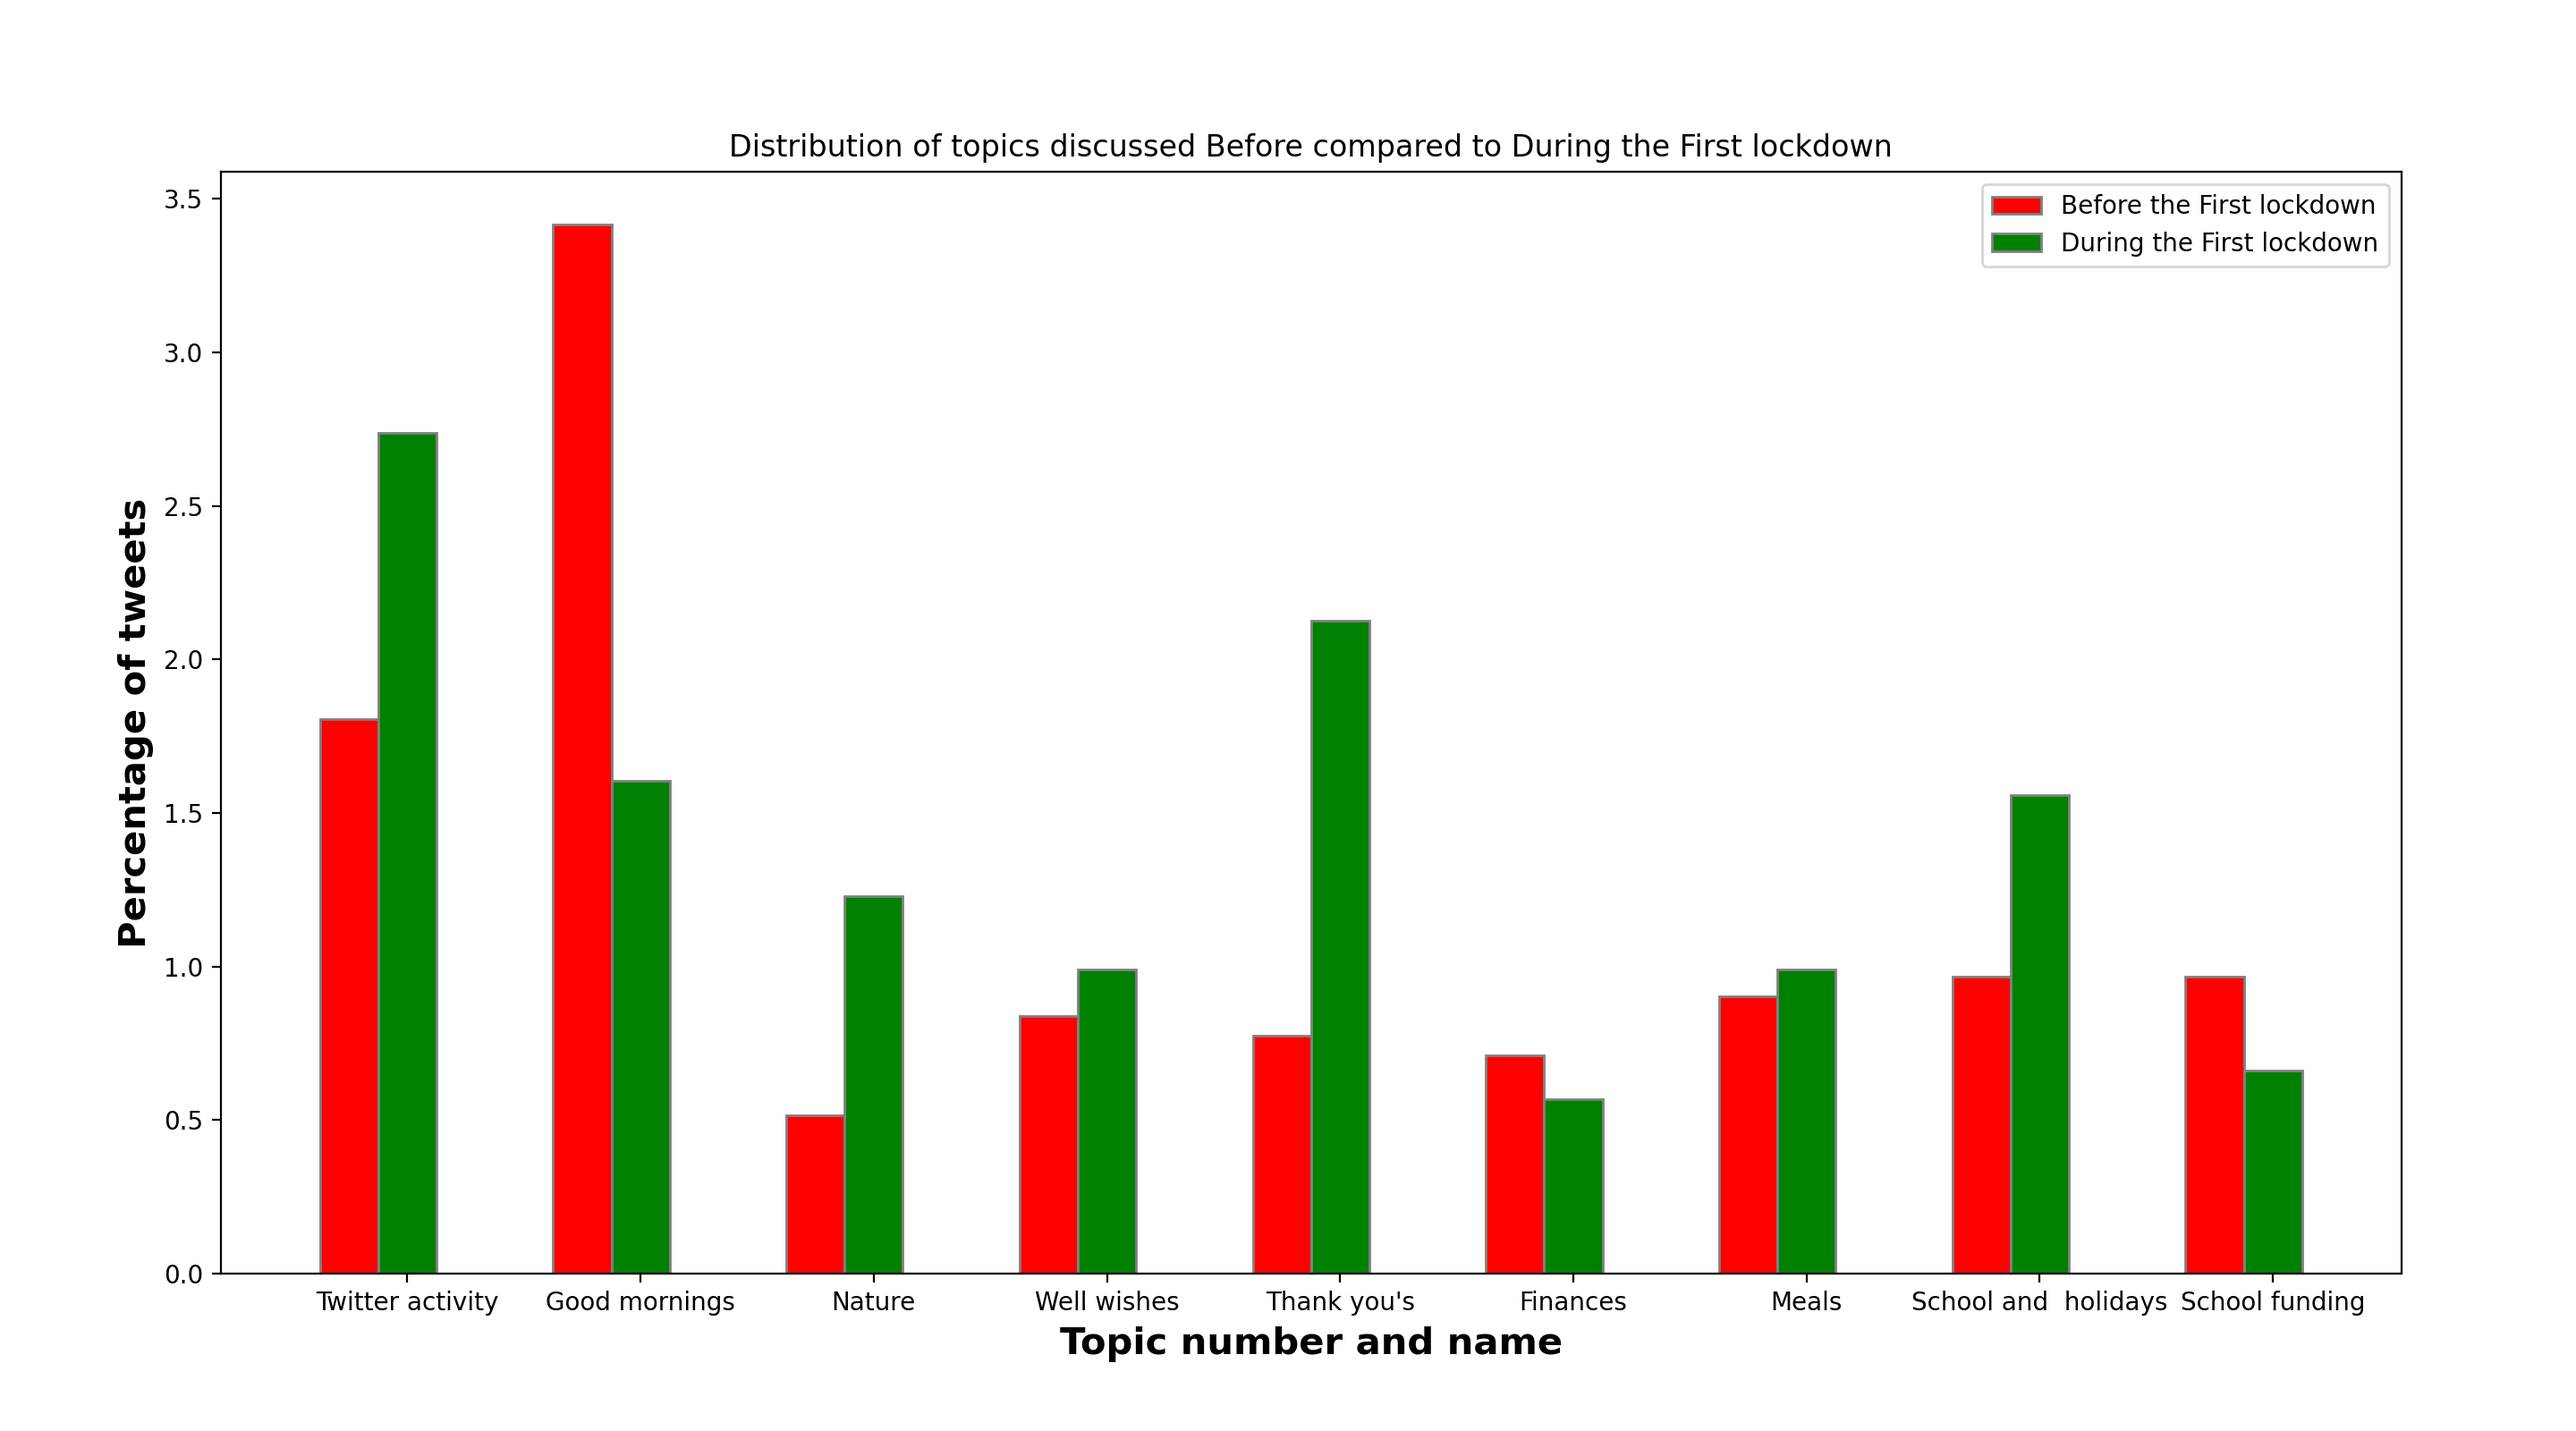
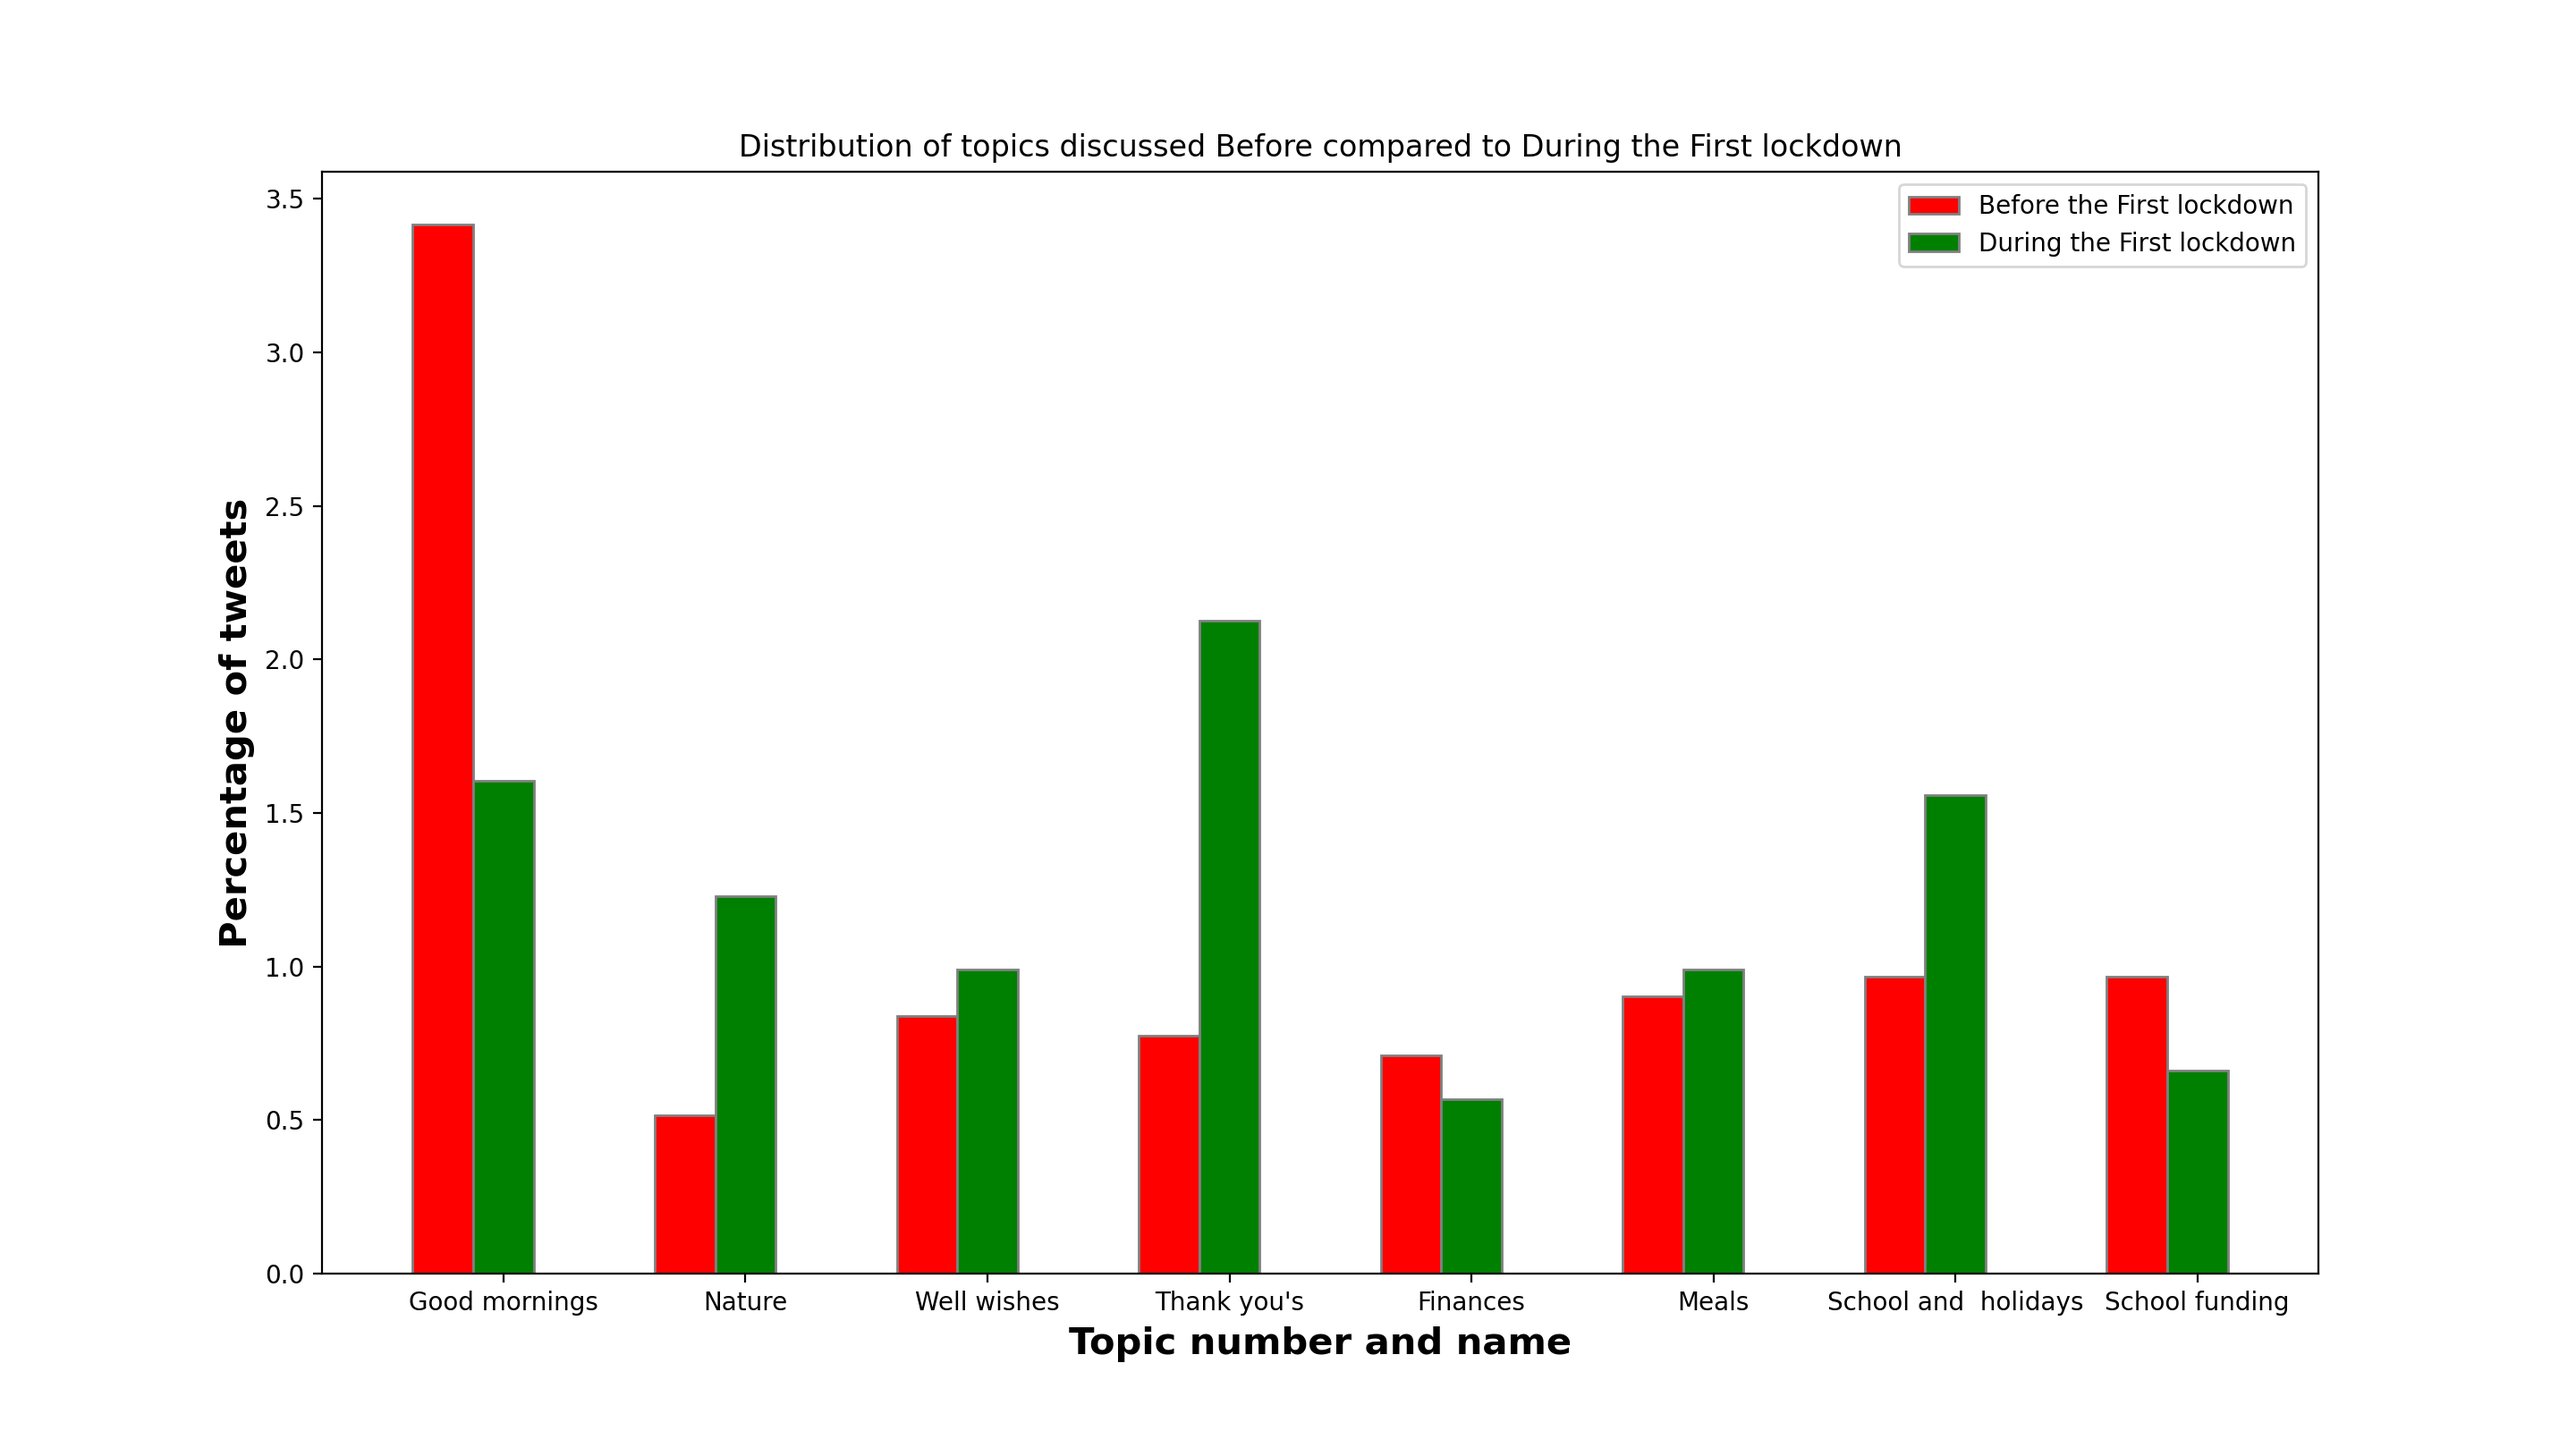
teacher plots

diff --git a/graphs/comparing_lockdowns.py b/graphs/comparing_lockdowns.py
@@ -11,27 +11,25 @@ directory_index = 0
 directory_name = directories[directory_index]
 profession_name = "nurse"
 nr_topics = 10
-# topic_dict = { 0: "Twitter activity", #for teachers
-#                 1: "School and school holidays",
-#                 2: "Good mornings and people",
-#                 3: "Nature",
-#                 4: "Well wishes",
-#                 5: "Thank you's",
-#                 6: "Finances",
-#                 7: "School funding",
-#                 8: "Meals",
-#                 9: "Loving wishes"}
-#
-# topic_strings = {"0: Twitter activity", #for teachers
-#                    "1: School and  holidays",
-#                    "2: Good mornings",
-#                    "3: Nature",
-#                    "4: Well wishes",
-#                    "5: Thank you's",
-#                    "6: Finances",
-#                    "7: School funding",
-#                    "8: Meals",
-#                    "9: Loving wishes"}
+topic_dict = { 0: "Twitter activity", #for teachers
+                1: "School and school holidays",
+                2: "Good mornings and people",
+                3: "Nature",
+                4: "Well wishes",
+                5: "Thank you's",
+                6: "Finances",
+                7: "School funding",
+                8: "Meals",
+                9: "Loving wishes"}
+
+topic_strings = [ #for teachers
+                   "2: Good mornings",
+                   "3: Nature",
+                   "4: Well wishes",
+                   "5: Thank you's",
+                   "6: Finances",
+                   "8: Meals"
+                   ]
 
 # topic_dict = {0: "Good morning", #for nurses
 #               1: "Thank you's",
@@ -42,15 +40,15 @@ nr_topics = 10
 #               7: "Miscellaneous",
 #               8: "General life",
 #               9: "Friends & people"}
-
+#
 # topic_strings = ["0: Good morning",
 #               "4: Expressions",
 #               "6: Exercise",
 #               "8: General life",
 #               "9: Friends & people"]
 
-chosen_topics = [0,4,6,8,9]
-work_topics = [2]
+chosen_topics = [2,3,4,5,6,8]
+work_topics = [1,7]
 
 first_lockdown_df = pd.read_csv(f"graphs/{profession_name}s/first_lockdown.csv", error_bad_lines=False)
 second_lockdown_df = pd.read_csv(f"graphs/{profession_name}s/second_lockdown.csv", error_bad_lines=False)
@@ -446,4 +444,4 @@ def lockdown_topics_bar():
     plt.legend()
     plt.show()
 
-# lockdown_topics_bar()
+lockdown_topics_bar()

diff --git a/graphs/frequency_change.py b/graphs/frequency_change.py
@@ -277,7 +277,7 @@ def compare_topics(df1, df2, topics, which_lockdown, df1_label, df2_label, colou
     plt.legend()
     plt.show()
 
-topics = [0,2,3,4,5,6,8]
+topics = [2,3,4,5,6,8]
 compare_topics(before1, during1, topics, 'First', 'Before', 'During', 'r', 'g')
 compare_topics(before2, during2, topics, 'Second', 'Before', 'During', 'r', 'g')
 compare_topics(before3, during3, topics, 'Third', 'Before', 'During', 'r', 'g')
